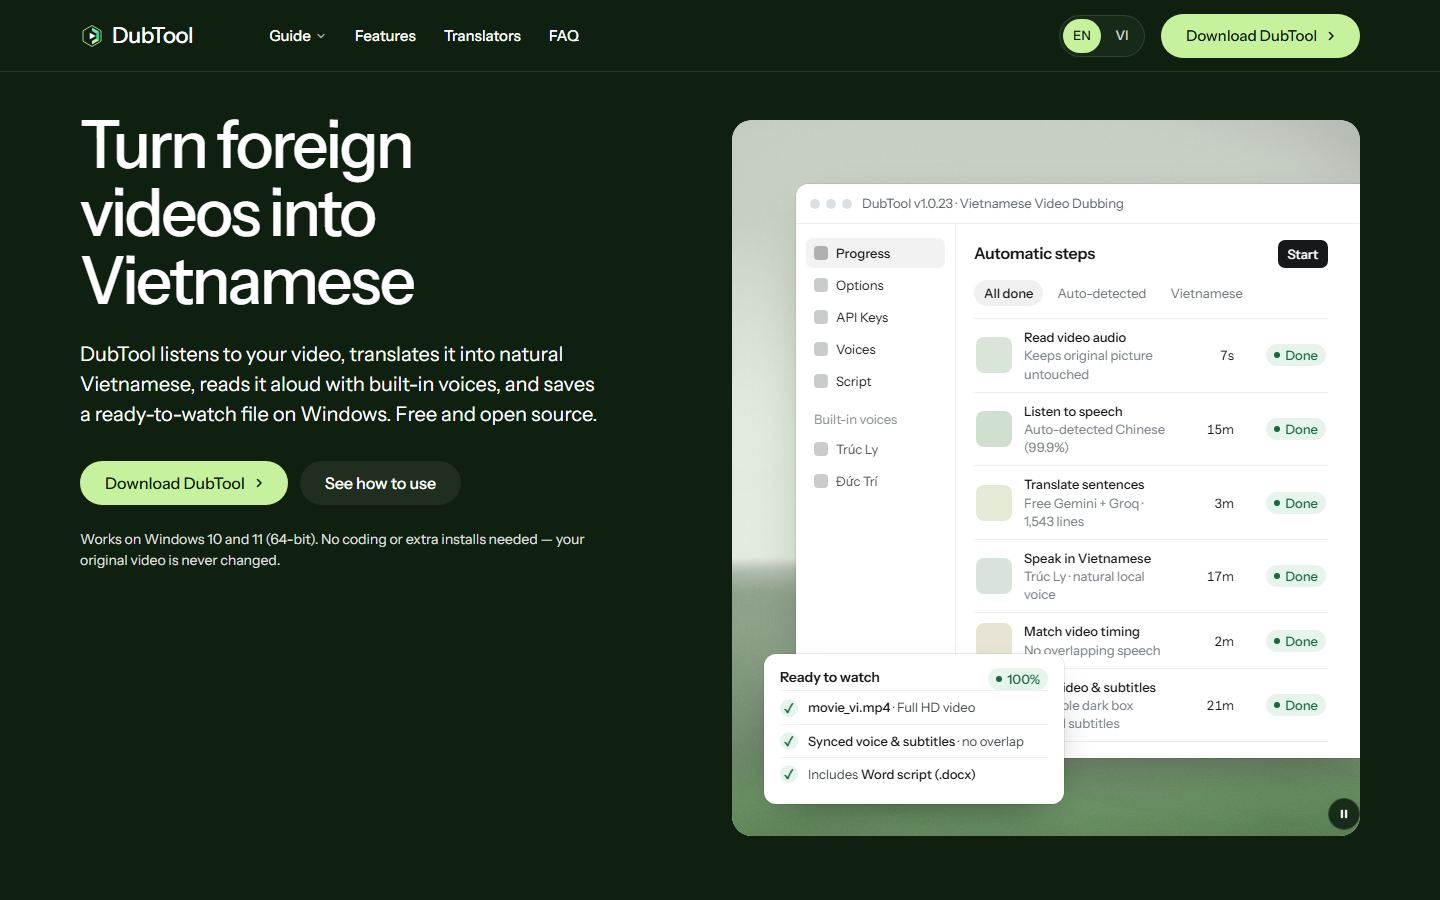
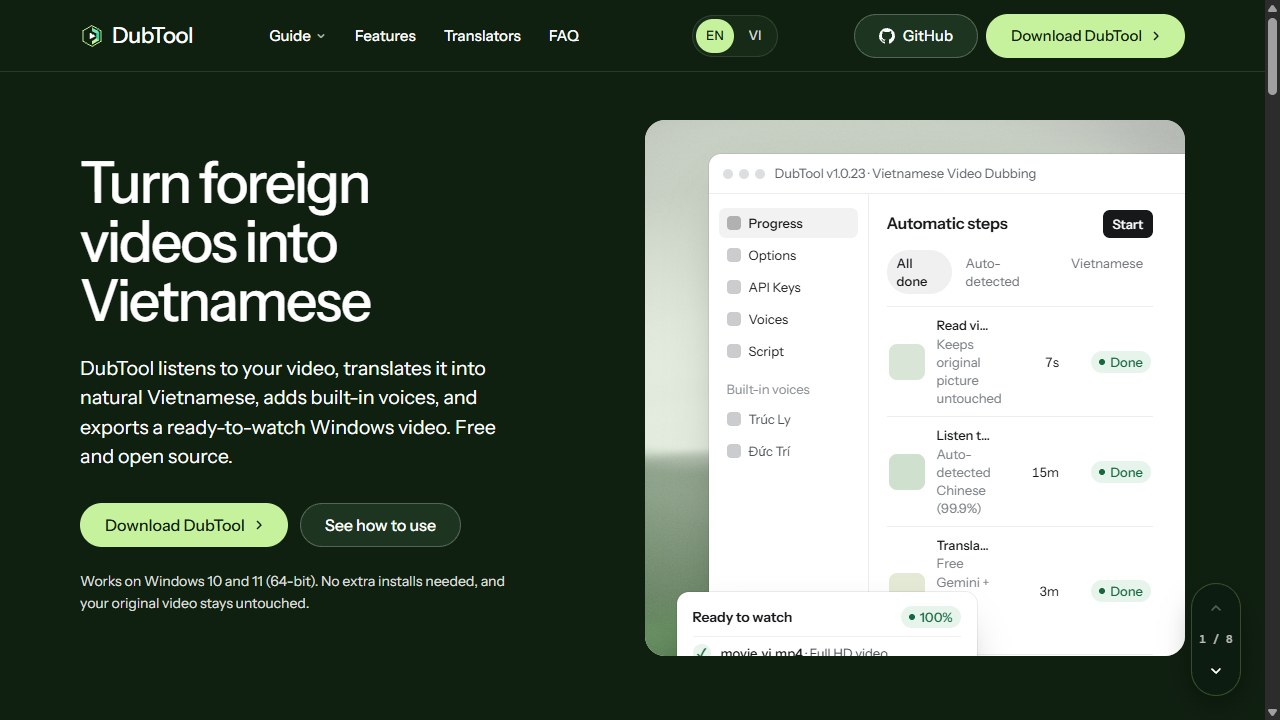
Site: cap hero visual height with overlapped Ready card, add smooth section navigator & update share.jpg

diff --git a/site/index.html b/site/index.html
@@ -143,18 +143,25 @@
     .lang-switch__btn { padding: 0 10px; min-width: 44px; height: 44px; font-size: 13px; }
   }
 
-  /* Keep dealt CSS ground sections locked to layout-v4 screen heights */
+  /* Keep dealt CSS ground sections locked to layout-v4 screen heights & vertically balanced on tall displays */
   main > section.section:is(.bg-mist, .bg-band) {
     --g-screen: calc(var(--h, 1) * 100svh);
-    align-content: start;
+    align-content: center;
     padding-top: var(--padt);
     padding-bottom: calc(var(--padb) + var(--bar));
   }
-  main > section.section#faq.bg-band {
+  main > section.section:not(.g2):not(.hero) {
+    display: grid;
     align-content: center;
   }
   main > section.section.bg-band.bg-bleed:last-of-type {
     padding-bottom: calc(var(--padb) + var(--bar)) !important;
+  }
+  @media (max-width: 1023px) {
+    main > section.section:not(.g2):not(.hero),
+    main > section.section:is(.bg-mist, .bg-band) {
+      align-content: start;
+    }
   }
   @media (max-width: 639px) {
     main > section.section:is(.bg-mist, .bg-band) {
@@ -166,12 +173,51 @@
     }
   }
 
-  /* Hero collage visual */
+  /* Active section link indicator in header */
+  .nav__link.is-active { color: var(--accent); }
+
+  /* Floating bottom-right section up/down navigator */
+  .sec-nav {
+    position: fixed; right: 24px; bottom: 24px; z-index: 40;
+    display: flex; flex-direction: column; align-items: center; gap: 4px;
+    padding: 5px; border-radius: 999px;
+    background: rgb(13 28 15 / .84);
+    -webkit-backdrop-filter: blur(12px); backdrop-filter: blur(12px);
+    border: 1px solid rgb(198 241 157 / .22);
+    box-shadow: 0 12px 32px -10px rgb(0 0 0 / .6);
+  }
+  .sec-nav__btn {
+    display: inline-grid; place-items: center;
+    width: 38px; height: 38px; border-radius: 999px; border: 0;
+    background: transparent; color: var(--ink); cursor: pointer;
+    transition: background-color 160ms ease, color 160ms ease, transform 160ms ease, opacity 160ms ease;
+  }
+  .sec-nav__btn:hover:not(:disabled) { background: rgb(198 241 157 / .18); color: var(--accent); }
+  .sec-nav__btn:active:not(:disabled) { transform: scale(.92); }
+  .sec-nav__btn:disabled { opacity: .28; cursor: default; }
+  .sec-nav__pos {
+    font: 500 11px/1 var(--font-mono); color: color-mix(in oklab, var(--ink) 72%, transparent);
+    padding: 3px 2px; font-variant-numeric: tabular-nums; user-select: none;
+  }
+  @media (max-width: 639px) {
+    .sec-nav { right: 14px; bottom: 14px; padding: 4px; gap: 2px; }
+    .sec-nav__btn { width: 44px; height: 44px; }
+    .sec-nav__pos { font-size: 11px; }
+  }
+
+  /* Hero collage visual: keep balanced height on tall monitors & overlap Ready card over app window */
   .hero__art { background:
       radial-gradient(70% 60% at 18% 12%, color-mix(in oklab, var(--ground-surface) 80%, white), transparent 70%),
       radial-gradient(60% 50% at 90% 100%, color-mix(in oklab, var(--ground-bg) 80%, var(--ground-accent)), transparent 70%),
       var(--ground-bg); }
   .hero__art > .ly-piece--note { left: var(--s-6); bottom: var(--s-6); width: 300px; z-index: 2; }
+  @media (min-width: 1024px) {
+    .hero--collage .hero__grid { align-items: center; }
+    .hero--collage .hero__text { align-self: center; }
+    .hero__art { height: min(100%, 660px); max-height: 660px; align-self: center; }
+    .hero__art > .ly-piece--main { top: 34px; }
+    .hero__art > .ly-piece--note { left: var(--s-6); top: 472px; bottom: auto; width: 300px; z-index: 2; }
+  }
   .hero__art .d-card__row { align-items: center; margin-bottom: 8px; }
   .hero__art .d-card__row h5 { margin: 0; line-height: 22px; }
   .hero__art .d-card__row .d-chip { margin: 0; flex: none; }
@@ -182,7 +228,7 @@
   .hero__proof { font-size: var(--t-small); color: color-mix(in oklab, var(--ink) 86%, transparent); }
   .ly-piece--main .d-row { grid-template-columns: 36px minmax(0, 1fr) 56px 80px; }
   .ly-piece--main .d-main { padding-right: calc(var(--ly-cut-room) + 12px); }
-  @media (max-width: 1023px) { .hero__art > .ly-piece--note { left: var(--s-4); bottom: var(--s-4); width: 270px; } }
+  @media (max-width: 1023px) { .hero__art > .ly-piece--note { left: var(--s-4); top: auto; bottom: var(--s-4); width: 270px; } }
   @media (max-width: 639px) {
     .ly-piece--main .d-row { grid-template-columns: 36px minmax(0, 1fr) 80px; }
     .ly-piece--main .d-row:nth-of-type(n+2) { display: none; }
@@ -1008,6 +1054,16 @@
     </div>
   </div>
 </footer>
+
+<nav class="sec-nav" aria-label="Section navigation">
+  <button class="sec-nav__btn" type="button" data-sec-prev aria-label="Previous section" title="Previous section" data-i18n-attrs="aria-label:secnav.prev,title:secnav.prev">
+    <svg viewBox="0 0 16 16" width="16" height="16" fill="none" stroke="currentColor" stroke-width="1.8" stroke-linecap="round" stroke-linejoin="round" aria-hidden="true"><path d="M4 10l4-4 4 4"/></svg>
+  </button>
+  <span class="sec-nav__pos" data-sec-pos aria-live="polite">1 / 8</span>
+  <button class="sec-nav__btn" type="button" data-sec-next aria-label="Next section" title="Next section" data-i18n-attrs="aria-label:secnav.next,title:secnav.next">
+    <svg viewBox="0 0 16 16" width="16" height="16" fill="none" stroke="currentColor" stroke-width="1.8" stroke-linecap="round" stroke-linejoin="round" aria-hidden="true"><path d="M4 6l4 4 4-4"/></svg>
+  </button>
+</nav>
 
 <script type="module" src="assets/system.js"></script>
 <script type="module" src="assets/motion/motion.js"></script>

diff --git a/site/assets/lang.js b/site/assets/lang.js
@@ -258,7 +258,9 @@ const STRINGS = {
     "foot.c4.1": "GitHub repository",
     "foot.c4.2": "Vietnamese README",
     "foot.lic": "MIT License",
-    "foot.tm": "Product names and logos are trademarks of their respective owners."
+    "foot.tm": "Product names and logos are trademarks of their respective owners.",
+    "secnav.prev": "Previous section",
+    "secnav.next": "Next section"
   },
   vi: {
     "meta.title": "DubTool: Phần mềm miễn phí lồng tiếng Việt cho video trên Windows",
@@ -515,7 +517,9 @@ const STRINGS = {
     "foot.c4.1": "Kho mã nguồn GitHub",
     "foot.c4.2": "Tài liệu tiếng Việt",
     "foot.lic": "Giấy phép MIT",
-    "foot.tm": "Tên sản phẩm và biểu trưng thuộc quyền sở hữu của chủ sở hữu tương ứng."
+    "foot.tm": "Tên sản phẩm và biểu trưng thuộc quyền sở hữu của chủ sở hữu tương ứng.",
+    "secnav.prev": "Mục trước",
+    "secnav.next": "Mục tiếp theo"
   }
 };
 
@@ -583,6 +587,119 @@ function initLang() {
     window.dispatchEvent(new CustomEvent("dubtool:lang", { detail: { lang: document.documentElement.lang || initial } }));
   }, 120);
   syncLatestReleaseZip();
+  initSectionNav();
+}
+
+/* Smooth eased section-by-section navigation (up/down floating buttons + header active link). */
+function initSectionNav() {
+  const sections = [...document.querySelectorAll("main > section, footer.closing")];
+  const prevBtn = document.querySelector("[data-sec-prev]");
+  const nextBtn = document.querySelector("[data-sec-next]");
+  const posEl = document.querySelector("[data-sec-pos]");
+  if (!sections.length || !prevBtn || !nextBtn || !posEl) return;
+
+  const navLinks = [...document.querySelectorAll(".nav__links a.nav__link[href^='#']")];
+  const reduced = window.matchMedia && window.matchMedia("(prefers-reduced-motion: reduce)").matches;
+  let animRaf = 0;
+
+  const cancelAnim = () => {
+    if (animRaf) { cancelAnimationFrame(animRaf); animRaf = 0; }
+  };
+  window.addEventListener("wheel", cancelAnim, { passive: true });
+  window.addEventListener("touchstart", cancelAnim, { passive: true });
+
+  const smoothScrollTo = (targetY, duration = 640) => {
+    cancelAnim();
+    const maxY = Math.max(0, document.documentElement.scrollHeight - window.innerHeight);
+    const to = Math.max(0, Math.min(maxY, Math.round(targetY)));
+    if (reduced || duration <= 0) {
+      window.scrollTo(0, to);
+      return;
+    }
+    const from = window.scrollY;
+    const delta = to - from;
+    if (Math.abs(delta) < 2) return;
+    const t0 = performance.now();
+    const easeInOutCubic = (t) => (t < 0.5 ? 4 * t * t * t : 1 - Math.pow(-2 * t + 2, 3) / 2);
+    const step = (now) => {
+      const p = Math.min(1, (now - t0) / duration);
+      window.scrollTo(0, from + delta * easeInOutCubic(p));
+      if (p < 1) {
+        animRaf = requestAnimationFrame(step);
+      } else {
+        animRaf = 0;
+        syncState();
+      }
+    };
+    animRaf = requestAnimationFrame(step);
+  };
+
+  const sectionTop = (el) => {
+    const y = el.getBoundingClientRect().top + window.scrollY;
+    return Math.max(0, Math.round(y));
+  };
+
+  const currentIndex = () => {
+    const mid = window.scrollY + window.innerHeight * 0.36;
+    let idx = 0;
+    for (let i = 0; i < sections.length; i++) {
+      if (sectionTop(sections[i]) <= mid + 8) idx = i;
+    }
+    if (window.scrollY + window.innerHeight >= document.documentElement.scrollHeight - 24) {
+      idx = sections.length - 1;
+    }
+    return idx;
+  };
+
+  const syncState = () => {
+    const idx = currentIndex();
+    posEl.textContent = `${idx + 1} / ${sections.length}`;
+    prevBtn.disabled = idx <= 0;
+    nextBtn.disabled = idx >= sections.length - 1;
+    const activeId = sections[idx]?.id ? `#${sections[idx].id}` : "";
+    navLinks.forEach((a) => {
+      a.classList.toggle("is-active", !!activeId && a.getAttribute("href") === activeId);
+    });
+  };
+
+  const goIndex = (idx) => {
+    const clamped = Math.max(0, Math.min(sections.length - 1, idx));
+    smoothScrollTo(sectionTop(sections[clamped]));
+  };
+
+  prevBtn.addEventListener("click", () => goIndex(currentIndex() - 1));
+  nextBtn.addEventListener("click", () => goIndex(currentIndex() + 1));
+
+  // Smooth scroll for in-page anchor links as well
+  document.querySelectorAll('a[href^="#"]').forEach((a) => {
+    const href = a.getAttribute("href");
+    if (!href || href === "#") return;
+    a.addEventListener("click", (e) => {
+      if (href === "#top") {
+        e.preventDefault();
+        smoothScrollTo(0);
+        return;
+      }
+      const target = document.querySelector(href);
+      if (target) {
+        e.preventDefault();
+        smoothScrollTo(sectionTop(target));
+      }
+    });
+  });
+
+  let scrollTick = false;
+  const onScroll = () => {
+    if (scrollTick) return;
+    scrollTick = true;
+    requestAnimationFrame(() => {
+      scrollTick = false;
+      syncState();
+    });
+  };
+  window.addEventListener("scroll", onScroll, { passive: true });
+  window.addEventListener("resize", syncState, { passive: true });
+  syncState();
 }
 
 /* Keep direct-download zip links pointed at the latest GitHub Release asset automatically. */

diff --git a/agent/PROJECT_STATE.md b/agent/PROJECT_STATE.md
@@ -17,7 +17,7 @@
     3. **Tự cuộn xuống khung `Tiến trình` (`UI`):** thêm `MainWindow._scroll_to_progress()` tự cuộn `QScrollArea` tới `progress_group` khi bấm **Tạo** ở cửa sổ 1 cột (`< 1000 px`), không tác động bố cục 2 cột.
     4. **Landing Page chính thức (`taste-skill` → GitHub Pages `https://namtit2932k.github.io/dubtool/`):** dựng trang tĩnh tại `site/` (`index.html`, `favicon.svg`, `share.jpg`, `assets/`) kèm workflow `.github/workflows/pages.yml` và liên kết từ `README.md` / `docs/README.vi.md`.
 - **Cập nhật nhỏ riêng cho Landing Page trên `main` (sau `v1.0.23`, không bump version / không tạo release mới theo yêu cầu người dùng):**
-  - Viết lại toàn bộ nội dung `site/index.html` theo văn phong phổ thông dễ hiểu cho người non-tech (gỡ bỏ thuật ngữ kỹ thuật chuyên sâu), bổ sung mục **Hướng dẫn sử dụng 4 bước (`#guide`)** + mẹo tự dừng khi video đã là tiếng Việt, và tích hợp thanh chuyển đổi ngôn ngữ **EN / VI** (`site/assets/lang.js`, mặc định tiếng Anh, đồng bộ 207/207 khóa, lưu `localStorage`, hỗ trợ `?lang=vi` / `?lang=en`) luôn hiển thị 1 chạm ở cả desktop, tablet và mobile (`check.mjs` 0 findings ở `1440`/`820`/`390`, `copy-lint` 0 FAIL).
+  - Viết lại toàn bộ nội dung `site/index.html` dễ hiểu cho người non-tech, bổ sung mục **Hướng dẫn sử dụng 4 bước (`#guide`, bố cục split minh họa trái – 4 bước phải)** + mẹo tự dừng video tiếng Việt, nút **GitHub** trên header, tất cả nút tải trỏ thẳng tới tệp `.zip` release mới nhất (tự đồng bộ qua GitHub API), thanh chuyển ngôn ngữ **EN / VI** (`site/assets/lang.js`, mặc định tiếng Anh, đồng bộ 246/246 khóa, live-sync cho toàn bộ 5 fragment động), logo nền trắng tinh, FAQ gradient xanh ngọc đậm, khu vực đóng trang `close--type` gọn đẹp, lưới tính năng 2×2 tự động chạy animation không cần hover, cân khung Hero cho màn hình 1080p+, và thanh mũi tên **Lên/Xuống section (`1 / 8`)** cuộn mượt góc dưới phải.
 - **Nội dung chính đã phát hành trước đó trong `v1.0.22` (Update 22 — Emerald Studio Dark UI, Synced Icon & Portrait Subtitle / S3–S7 Fixes, `docs/reports/REPORT_UPDATE_22.md`):**
   - Xuất phát từ lượt chạy E2E thật 29:15 (`test_china06.mp4`, dọc `720×1280`, 264 units, xong trong `749.8s`, 0 TTS fail, 0 CJK leak, max shift `0.153s`):
     1. **Phụ đề video dọc & dung lượng xuất (`S7`):** bỏ `max_line_chars: 42` cứng trong `config.yaml` để tự kích hoạt `PORTRAIT_LINE_CHARS = 28` trên video dọc, chặn `font_px <= width / 20` trên khung 9:16 (tránh tràn 4 dòng), bật hộp nền tối mờ mặc định `bg_box: true` (`BorderStyle=3`, `BackColour=&H38000000`) chống đè hardsub nguồn, đổi mặc định `crf: 21` giảm phình file 3× trên video nén thấp.
